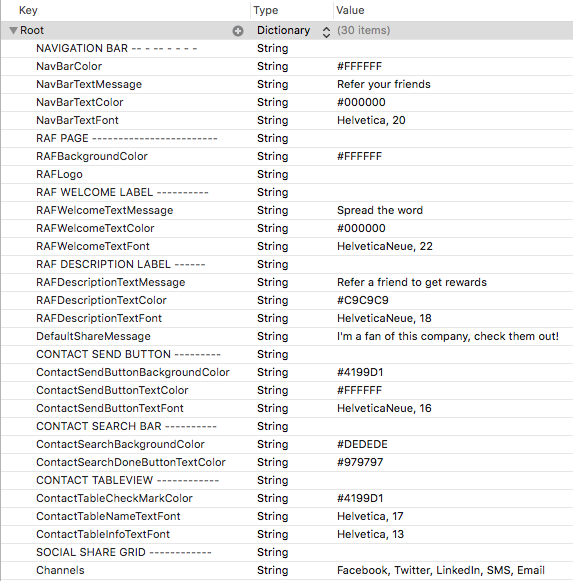
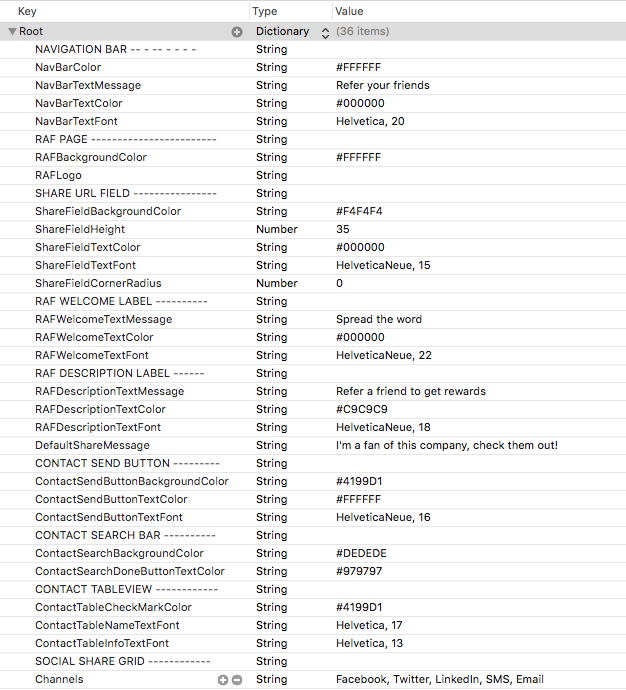
[#111998407] Updating readme

Changed region(s): [[0.0, 0.0, 1.0, 1.0]]

diff --git a/README.md b/README.md
@@ -9,7 +9,7 @@ $ ln -s ../../git-hooks/pre-push .git/hooks/pre-push
 
 The `pre-push` hook requires re-initialization of the repo:
 ```
-$ git init
+$ git initÂ
 ```
 
 Make sure the `pre-push` hook is executable:
@@ -98,8 +98,7 @@ You will want to run Ambassador inside of the  `application:didFinishLaunchingWi
 
 **Swift**
 ```objective-c
-func application(application: UIApplication, didFinishLaunchingWithOptions launchOptions: [NSObject: AnyObject]?) -> Bool
-{
+func application(application: UIApplication, didFinishLaunchingWithOptions launchOptions: [NSObject: AnyObject]?) -> Bool {
     // Override point for customization after application launch.
 
     AmbassadorSDK.runWithUniversalToken(<your_universal_token>, universalID:<your_universal_id>)
@@ -213,13 +212,13 @@ AmbassadorSDK.registerConversion(parameters, restrictToInsall: false) { (error) 
 **Objective-c**
 ```objective-c
 // Present the RAF Modal View
-[AmbassadorSDK presentRAFForCampaign:@"877" FromViewController:self];
+[AmbassadorSDK presentRAFForCampaign:<campaign ID> FromViewController:self withThemePlist:@"GenericTheme"];
 ```
 
 **Swift**
 ```objective-c
 // Present the RAF Modal View
-AmbassadorSDK.presentRAFForCampaign("877", fromViewController: self)
+AmbassadorSDK.presentRAFForCampaign(<campaign ID>, fromViewController: self, withThemePlist: "GenericTheme")
 ```
 
 **NOTES**
@@ -228,20 +227,20 @@ AmbassadorSDK.presentRAFForCampaign("877", fromViewController: self)
 
 * **Identify should also be called before any calls to present a RAF. Identify will need to generate/update the short urls, and therefore should not be placed immediately before any RAF presentation calls.  This will allow the share urls to be generated for your user. If identify is not called before, or a campaign ID that does not exist is passed, a warning will be logged to let you know**
 
-### Service Selector Preferences
+### Customizing the RAF Screen
 The RAF screen provides a UI component that allows users to share with their contacts and become part of your referral program.
-To allow customization, there is an `AmbassadorTheme.plist` where you can set many editable properties of the RAF, including colors, messages, fonts, and images.
+To allow customization, there is a `GenericTheme.plist` where you can set many editable properties of the RAF, including colors, messages, fonts, and images.
 
-  <img src="screenShots/AmbassadorThemeSelection.png" width="250" />
+  <img src="screenShots/genericThemeSelection.png" width="250" />
 
 If you leave any property unset, the RAF will use the default values shown below.
-Any blank or incorrect values inserted into the `AmbassadorTheme.plist` will default to:
+Any blank or incorrect values inserted into the `GenericTheme.plist` will default to:
 * Colors - White
 * Fonts - **System Font** of size **14**
 * Messages - **"NO PLIST VALUE FOUND"**
 * Images - No image will be added
 
-The `AmbassadorTheme.plist` will come with preconfigured values looking like this:
+The `GenericTheme.plist` will come with preconfigured values looking like this:
 
   <img src="screenShots/themePlist.png" width="600" />
 
@@ -296,6 +295,23 @@ Removing __LinkedIn__ from the list would result in the LinkedIn Sharing Channel
   <img src="screenShots/disabledOptionPlist.png" width="600" />
 
   <img src="screenShots/disabledLinkedin.png" width="350" />
+
+### Theming multiple RAFs using different Theming plists
+
+Your app may include various RAF Screens that triggered by different events. You can use different themes for each RAF by following the steps below:
+
+Right click __GenericTheme.plist__ and select __Show in Finder__
+
+  <img src="screenShots/themeRightClick.png" width="400" />
+
+You should now see the __GenericTheme.plist__ in a Finder window
+
+  <img src="screenShots/themeInFinder.png" width="500" />
+
+Right click __GenericTheme.plist__ and select __Duplicate__
+
+  <img src="screenShots/themeDuplicate.png" width="500" />
+
 
 **NOTES FOR CUSTOM THEMES**
 * **Colors must be entered as Hex Code values**
